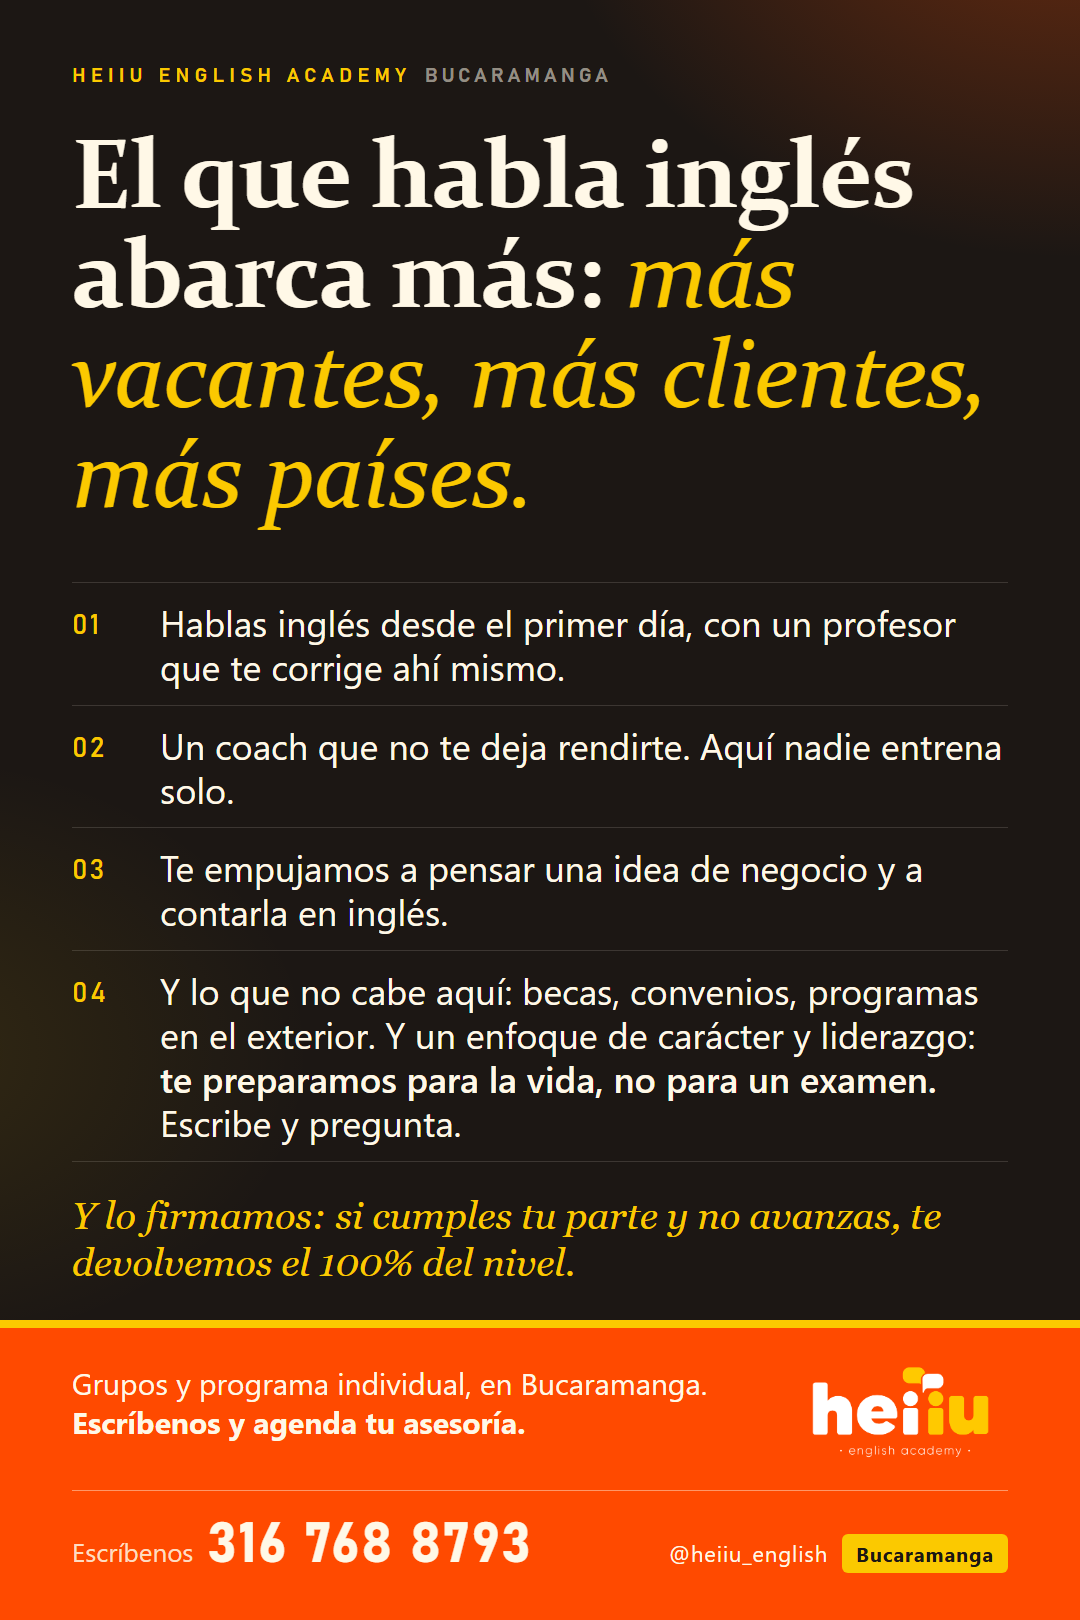
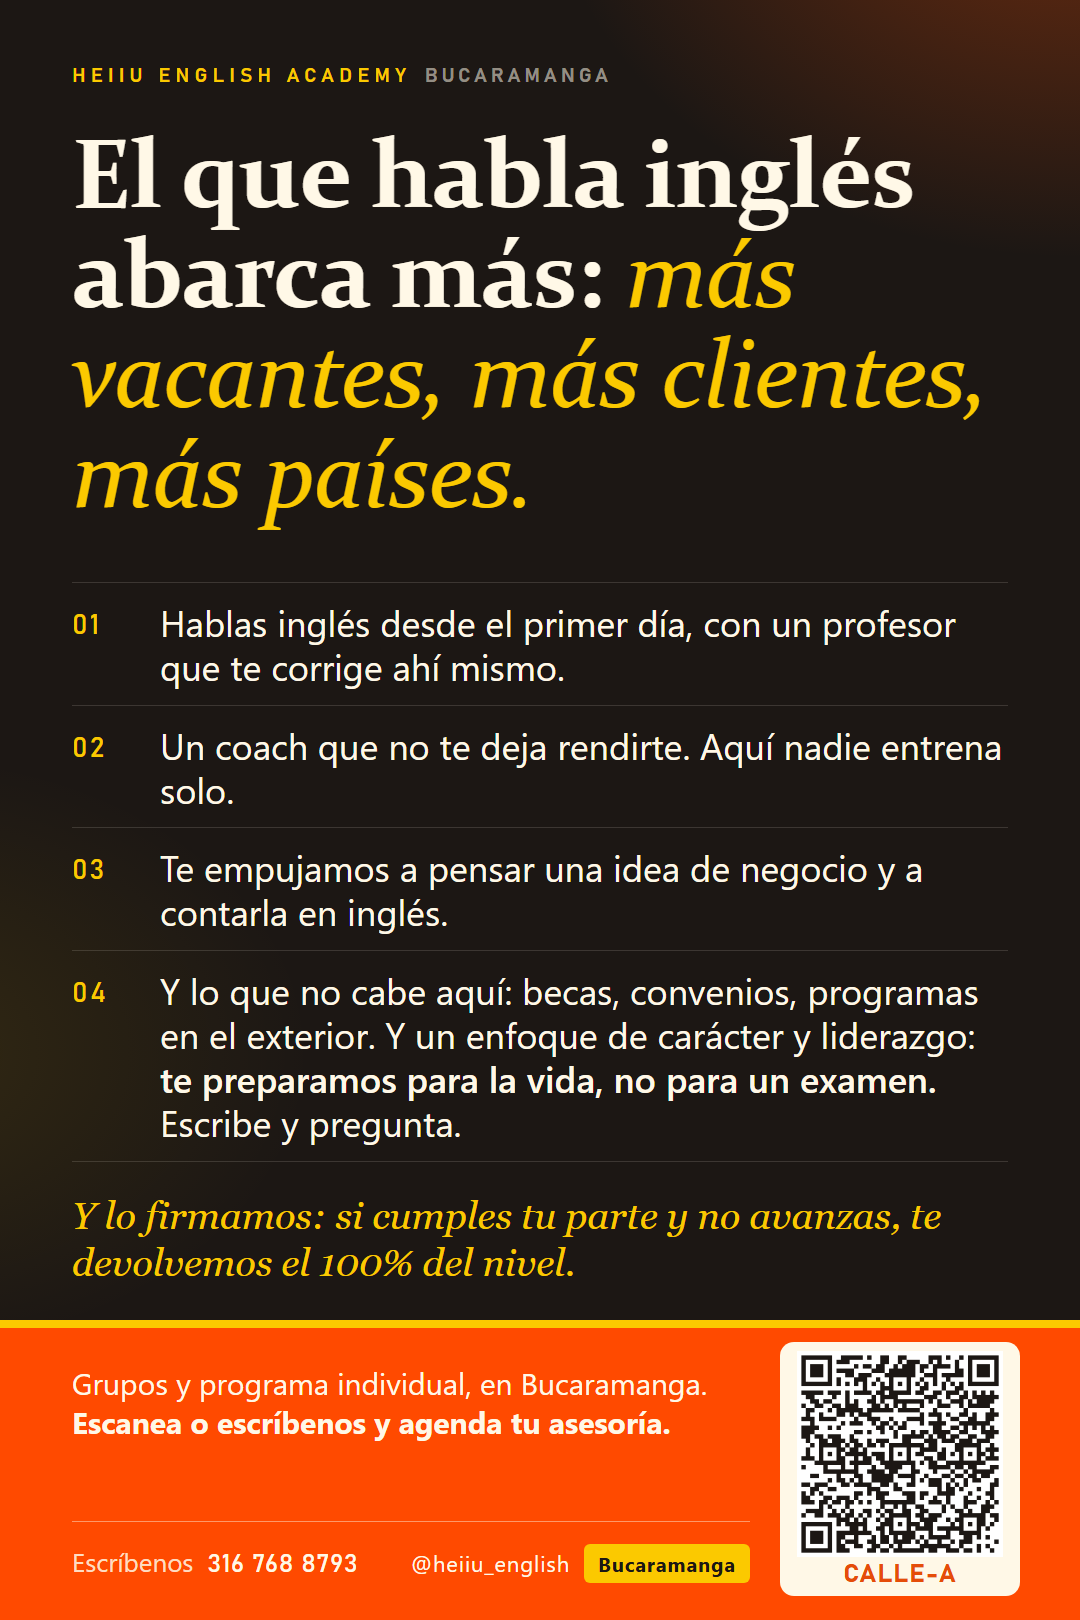
Calle A y B con QR (codigos CALLE-A y CALLE-B a la linea de alianzas) para medir de cual volante llegan; el numero sigue visible

Changed region(s): [[0.0611, 0.8025, 0.9472, 0.9877], [0.0917, 0.8642, 0.6111, 0.8951]]

diff --git a/generadores/comercial/gen_piezas_conciencia.py b/generadores/comercial/gen_piezas_conciencia.py
@@ -26,6 +26,7 @@ EDGE = r'C:\Program Files (x86)\Microsoft\Edge\Application\msedge.exe'
 WORK = os.path.join(tempfile.gettempdir(), 'heiiu_piezas'); os.makedirs(WORK, exist_ok=True)
 LINEA = '316 768 8793'; IG = '@heiiu_english'
 QR_LINEA = '573167688793'; QR_MENSAJE = 'Hola, quiero información para estudiar inglés en Heiiu. Código de asesor: {codigo}'
+QR_MENSAJE_PIEZA = 'Hola, quiero información para estudiar inglés en Heiiu. Código: {codigo}'   # QR de piezas sin asesora (calle A/B): mide de cuál volante llegan
 CODIGOS_TXT = os.path.join(ROOT, r'recursos\comercial\INDUCCION_COMERCIAL\contratacion comercial\LINKEDIN DIANA GOMEZ\Candidatos\John Hinestroza\plan referidos\codigos_asesoras.txt')
 
 
@@ -47,7 +48,8 @@ def linea_de(codigo): return dict(_lineas_codigos()).get(codigo, QR_LINEA)
 
 
 def qr_png(codigo):
-    enlace = 'https://wa.me/%s?text=%s' % (linea_de(codigo), quote(QR_MENSAJE.format(codigo=codigo)))
+    msg = QR_MENSAJE if codigo.startswith('C-') else QR_MENSAJE_PIEZA
+    enlace = 'https://wa.me/%s?text=%s' % (linea_de(codigo), quote(msg.format(codigo=codigo)))
     q = qrcode.QRCode(error_correction=qrcode.constants.ERROR_CORRECT_L, box_size=10, border=1); q.add_data(enlace); q.make(fit=True)
     out = os.path.join(WORK, 'qr_%s.png' % codigo); q.make_image(fill_color=(28, 23, 20), back_color='white').save(out); return out
 W, H = 1080, 1620
@@ -493,8 +495,8 @@ PIEZAS = {
             ('Te empujamos a pensar una idea de negocio y a contarla en inglés.'),
             ('Y lo que no cabe aquí: becas, convenios, programas en el exterior. Y un enfoque de carácter y liderazgo: <b>te preparamos para la vida, no para un examen.</b> Escribe y pregunta.')],
         lead='Y lo firmamos: si cumples tu parte y no avanzas, te devolvemos el 100% del nivel.', big='', big2='',
-        band='Grupos y programa individual, en Bucaramanga. <b>Escríbenos y agenda tu asesoría.</b>',
-        band_px=300),
+        band='Grupos y programa individual, en Bucaramanga. <b>Escanea o escríbenos y agenda tu asesoría.</b>',
+        qr='CALLE-A', tel_qr='<small>Escríbenos</small>' + LINEA, band_px=300),
     'CALLE_B': dict(
         calle=True, label='HEIIU ENGLISH ACADEMY', sub='BUCARAMANGA',
         h1='¿Nadie sabe cuál es el camino? <em>Los mejores piden inglés.</em>',
@@ -502,8 +504,8 @@ PIEZAS = {
             ('Un coach que no te deja rendirte, y una idea de negocio propia contada en inglés.'),
             ('Becas, convenios, programas en el exterior. Carácter y liderazgo: <b>te preparamos para la vida, no para un examen.</b>')],
         lead='Y lo firmamos: si cumples tu parte y no avanzas, te devolvemos el 100% del nivel.', big='', big2='',
-        band='Grupos y programa individual, en Bucaramanga. <b>Escríbenos y agenda tu asesoría.</b>',
-        band_px=300),
+        band='Grupos y programa individual, en Bucaramanga. <b>Escanea o escríbenos y agenda tu asesoría.</b>',
+        qr='CALLE-B', tel_qr='<small>Escríbenos</small>' + LINEA, band_px=300),
 }
 
 
@@ -549,7 +551,8 @@ def html(c):
     logo = pathlib.Path(LOGO_NAR).as_uri()
     if c.get('qr'):
         derecha = '<div class="qrbox"><img src="%s"><span>%s</span></div>' % (pathlib.Path(qr_png(c['qr'])).as_uri(), c['qr'])
-        tel = (c.get('tel_qr') or 'Escanea el código de tu asesora: <b>%s</b>') % c['qr']
+        tel = c.get('tel_qr') or 'Escanea el código de tu asesora: <b>%s</b>'
+        if '%s' in tel: tel = tel % c['qr']
     elif c.get('codigo'):
         derecha = '<div class="codigo"><span class="k">CÓDIGO DE TU ASESORA</span><span class="v">C-<span></span></span></div>'; tel = '<small>Escríbenos</small>' + LINEA
     else:
